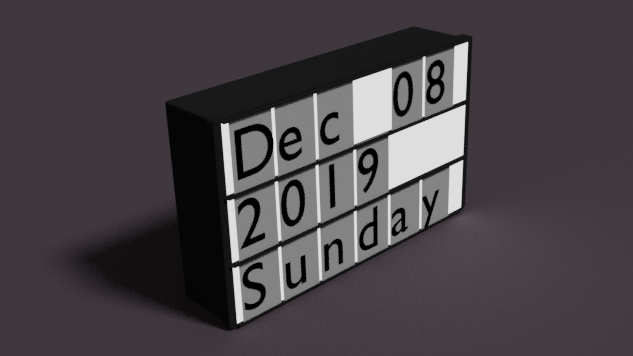
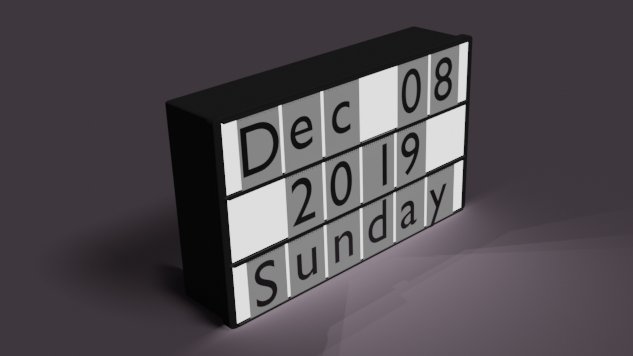
Center cards in line and letters in card

Changed region(s): [[0.3302, 0.1236, 0.8705, 1.0], [0.1801, 0.7725, 0.3302, 0.8961], [0.1201, 0.7107, 0.1501, 0.7416]]

diff --git a/script.py b/script.py
@@ -12,14 +12,17 @@ texts = [
     today.strftime('%A')
 ]
 
+full_width = .5
 for line in range(0, 3):
+    width = len(texts[line]) * .15
+    shift = (full_width - width) / 2
     for index, letter in enumerate(texts[line]):
         if letter == ' ':
             continue
 
         # Add the card plane
         bpy.ops.mesh.primitive_plane_add(
-            location=(.125 + line * .0075, -.4 + index * .15, 0.505 + line * -.2))
+            location=(.125 + line * .0075, -.175 + shift + index * .15, 0.505 + line * -.2))
         bpy.context.active_object.rotation_euler = (
             math.radians(0), math.radians(87), math.radians(0))
         bpy.context.active_object.scale = (.1, .07, 1)
@@ -28,12 +31,27 @@ for line in range(0, 3):
 
         # Add the card text
         bpy.ops.object.text_add(
-            location=(.13 + line * .0075, -.47 + index * .15, .44 + line * -.2))
+            location=(.13 + line * .0075, -.26 + shift + index * .15, .44 + line * -.205))
         bpy.context.active_object.rotation_euler = (
             math.radians(87), math.radians(0), math.radians(90))
-        bpy.context.active_object.scale = (.2, .2, .2)
+        #bpy.context.active_object.scale = (.2, .2, .2)
+        bpy.context.active_object.data.size = .2
 
         black = bpy.data.materials.new("Black")
         black.diffuse_color = (0, 0, 0, 0)  # RGB?
         bpy.context.active_object.data.materials.append(black)
         bpy.context.active_object.data.body = letter
+
+        # Force calculating the dimensions of the letter text boxes
+        bpy.context.view_layer.update()
+        width = bpy.context.active_object.dimensions[0]
+        height = bpy.context.active_object.dimensions[1]
+
+        # Center the letter within the card
+        bpy.context.active_object.location[1] += (.14 - width) / 2
+
+        # Bump the letter up if it is lowercase
+        if letter.islower():
+            bpy.context.active_object.location[2] += .02
+
+        print(letter, width, height)

diff --git a/README.md b/README.md
@@ -25,10 +25,6 @@ Use the same to save a Blend file with the cards solidified in.
 
 ## To-Do
 
-### Center the letters within the cards
-
-### Center the card chain within the line
-
 ### Discard cards which would put the card chain over the line size
 
 Probably error out in the Python script.
